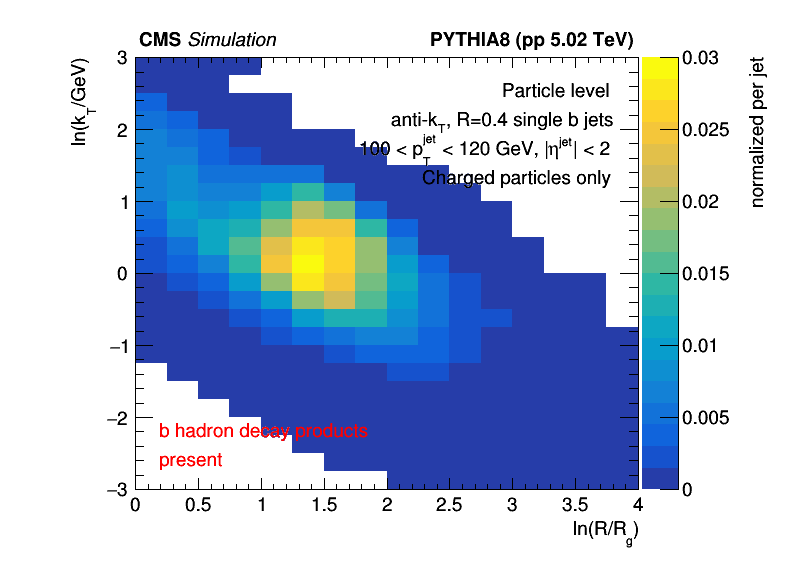
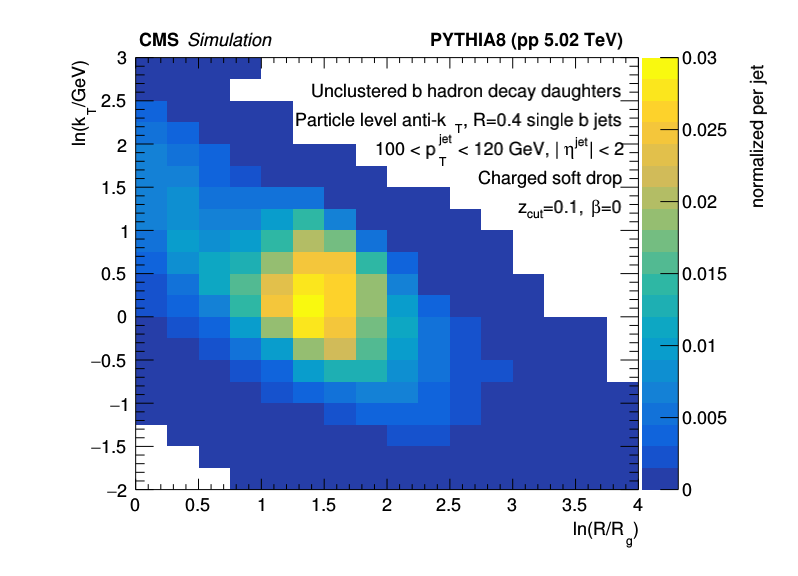
update text in lund plane

diff --git a/myMacros/C106X/draw_substructure.C b/myMacros/C106X/draw_substructure.C
@@ -28,7 +28,7 @@ void draw_substructure(TString observable="rg")
     if (observable=="rg") xlabel = "ln(R/R_{g})";
     else if (observable=="zg") xlabel = "z_{g}";
 
-    TString label = "aggrTMVA_newJP";
+    TString label = "aggrGenNoReco_withPNET";
     TString sample = "bjet";
     TString fin_name = "./histos/" + sample + "_" + label + "_substructure.root"; 
     std::cout << "fin: " << fin_name << std::endl;
@@ -43,6 +43,7 @@ void draw_substructure(TString observable="rg")
     hSingleB_gen->GetZaxis()->SetTitle("normalized per jet");
     hSingleB_gen->GetZaxis()->SetTitleOffset(1.8);
     hSingleB_gen->GetZaxis()->SetRangeUser(0., 0.03);
+    hSingleB_gen->GetYaxis()->SetRangeUser(-2., 3.);
 
     TCanvas *c_SingleB_gen = new TCanvas("c_SingleB_gen", "Truth level lund plane no tag", 800, 600);
     c_SingleB_gen->SetRightMargin(0.2);
@@ -54,64 +55,65 @@ void draw_substructure(TString observable="rg")
     TLatex *jet_info = new TLatex;
     jet_info->SetNDC();
     jet_info->SetTextSize(text_size);
-    jet_info->DrawLatex(0.63, 0.83, "Particle level");
-    jet_info->DrawLatex(0.49, 0.78, "anti-k_{T}, R=0.4 single b jets");
-    jet_info->DrawLatex(0.45, 0.73, "100 < p_{T}^{jet} < 120 GeV, |#eta^{jet}| < 2");
-    jet_info->DrawLatex(0.53, 0.68, "Charged particles only");
-    auto txt1 = jet_info->DrawLatex(0.2, 0.24, "b hadron decay products");
-    txt1->SetTextColor(kRed);
-    TString bdecay;
-    if (label.Contains("aggrTMVA")) bdecay = "aggregated";
-    else bdecay = "present";
-    auto txt2 = jet_info->DrawLatex(0.2, 0.19, bdecay);
-    txt2->SetTextColor(kRed);
+    jet_info->DrawLatex(0.37, 0.78, "Particle level anti-k_{T}, R=0.4 single b jets");
+    jet_info->DrawLatex(0.47, 0.73, "100 < p_{T}^{jet} < 120 GeV, |#eta^{jet}| < 2");
+    jet_info->DrawLatex(0.6, 0.68, "Charged soft drop");
+    jet_info->DrawLatex(0.65, 0.63, "z_{cut}=0.1, #beta=0");
+    if (label.Contains("aggr")) {
+        auto txt1 = jet_info->DrawLatex(0.42, 0.83, "Clustered b hadron decay daughters");
+        // txt1->SetTextColor(kWhite);
+    } else {
+        auto txt1 = jet_info->DrawLatex(0.39, 0.83, "Unclustered b hadron decay daughters");
+        // txt1->SetTextColor(kWhite);
+    }
+
     jet_info->Draw();
 
     c_SingleB_gen->Print("plots_an/"+sample+"_"+label+"_"+observable+"_vs_kt.pdf");
     c_SingleB_gen->Print("plots_an/"+sample+"_"+label+"_"+observable+"_vs_kt.png");
 
     // Draw gen vs reco 
-    TH2F *hSingleBtag_reco_vs_gen = (TH2F *) fin->Get("hSingleBtag_"+observable+"_reco_vs_gen");
-    int nbins_x = hSingleBtag_reco_vs_gen->GetNbinsX();
-    int nbins_y = hSingleBtag_reco_vs_gen->GetNbinsY();
-    for (int iy=1; iy<=nbins_y; iy++) {
-        double integral = hSingleBtag_reco_vs_gen->Integral(1, nbins_x, iy, iy);
-        for (int ix=1; ix<=nbins_x; ix++) {
-            double content = hSingleBtag_reco_vs_gen->GetBinContent(ix, iy);
-            hSingleBtag_reco_vs_gen->SetBinContent(ix, iy, content/integral);
-        }
-    }
-    hSingleBtag_reco_vs_gen->GetXaxis()->SetTitle("Detector level "+xlabel);
-    hSingleBtag_reco_vs_gen->GetYaxis()->SetTitle("Particle level "+xlabel);
-    hSingleBtag_reco_vs_gen->GetYaxis()->SetTitleOffset(1.2);
-    hSingleBtag_reco_vs_gen->GetZaxis()->SetTitle("normalized per particle level bin");
-    hSingleBtag_reco_vs_gen->GetZaxis()->SetTitleOffset(1.5);
-    hSingleBtag_reco_vs_gen->GetZaxis()->SetRangeUser(0.,1.);
+    // TH2F *hSingleBtag_reco_vs_gen = (TH2F *) fin->Get("hSingleBtag_"+observable+"_reco_vs_gen");
+    // int nbins_x = hSingleBtag_reco_vs_gen->GetNbinsX();
+    // int nbins_y = hSingleBtag_reco_vs_gen->GetNbinsY();
+    // for (int iy=1; iy<=nbins_y; iy++) {
+    //     double integral = hSingleBtag_reco_vs_gen->Integral(1, nbins_x, iy, iy);
+    //     for (int ix=1; ix<=nbins_x; ix++) {
+    //         double content = hSingleBtag_reco_vs_gen->GetBinContent(ix, iy);
+    //         hSingleBtag_reco_vs_gen->SetBinContent(ix, iy, content/integral);
+    //     }
+    // }
+    // hSingleBtag_reco_vs_gen->GetXaxis()->SetTitle("Detector level "+xlabel);
+    // hSingleBtag_reco_vs_gen->GetYaxis()->SetTitle("Particle level "+xlabel);
+    // hSingleBtag_reco_vs_gen->GetYaxis()->SetTitleOffset(1.2);
+    // hSingleBtag_reco_vs_gen->GetZaxis()->SetTitle("normalized per particle level bin");
+    // hSingleBtag_reco_vs_gen->GetZaxis()->SetTitleOffset(1.5);
+    // hSingleBtag_reco_vs_gen->GetZaxis()->SetRangeUser(0.,1.);
 
-    TCanvas *c_SingleBtag_reco_vs_gen = new TCanvas("c_SingleBtag_reco_vs_gen", "x=reco,y=gen", 800, 600);
-    c_SingleBtag_reco_vs_gen->SetRightMargin(0.2);
-    hSingleBtag_reco_vs_gen->Draw("colz");
+    // TCanvas *c_SingleBtag_reco_vs_gen = new TCanvas("c_SingleBtag_reco_vs_gen", "x=reco,y=gen", 800, 600);
+    // c_SingleBtag_reco_vs_gen->SetRightMargin(0.2);
+    // hSingleBtag_reco_vs_gen->Draw("colz");
 
-    TLatex *jet_info2 = new TLatex;
-    jet_info2->SetNDC();
-    jet_info2->SetTextSize(text_size);
-    jet_info2->DrawLatex(0.63, 0.35, "Particle level");
-    jet_info2->DrawLatex(0.39, 0.3, "anti-k_{T}, R=0.4 b-tagged single b jets");
-    jet_info2->DrawLatex(0.45, 0.25, "100 < p_{T}^{jet} < 120 GeV, |#eta^{jet}| < 2");
-    jet_info2->DrawLatex(0.53, 0.2, "Charged particles only");
-    auto txt11 = jet_info2->DrawLatex(0.2, 0.8, "b hadron decay products");
-    txt11->SetTextColor(kRed);
-    TString bdecay2;
-    if (label.Contains("aggrTMVA")) bdecay2 = "aggregated for both axes";
-    else if (label.Contains("aggrGenNoReco")) bdecay2 = "aggregated for particle level";
-    else bdecay2 = "present for both axes";
-    auto txt22 = jet_info2->DrawLatex(0.2, 0.75, bdecay2);
-    txt22->SetTextColor(kRed);
-    jet_info2->Draw();
+    // TLatex *jet_info2 = new TLatex;
+    // jet_info2->SetNDC();
+    // jet_info2->SetTextSize(text_size);
+    // jet_info2->DrawLatex(0.63, 0.35, "Particle level");
+    // jet_info2->DrawLatex(0.39, 0.3, "anti-k_{T}, R=0.4 b-tagged single b jets");
+    // jet_info2->DrawLatex(0.45, 0.25, "100 < p_{T}^{jet} < 120 GeV, |#eta^{jet}| < 2");
+    // jet_info2->DrawLatex(0.53, 0.2, "Charged particles only");
+    // auto txt11 = jet_info2->DrawLatex(0.2, 0.8, "b hadron decay products");
+    // txt11->SetTextColor(kRed);
+    // TString bdecay2;
+    // if (label.Contains("aggrTMVA")) bdecay2 = "aggregated for both axes";
+    // else if (label.Contains("aggrGenNoReco")) bdecay2 = "aggregated for particle level";
+    // else bdecay2 = "present for both axes";
+    // auto txt22 = jet_info2->DrawLatex(0.2, 0.75, bdecay2);
+    // txt22->SetTextColor(kRed);
+    // jet_info2->Draw();
 
-    draw_info();
+    // draw_info();
 
-    c_SingleBtag_reco_vs_gen->Print("plots_an/"+sample+"_"+label+"_"+observable+"_reco_vs_gen.pdf");
-    c_SingleBtag_reco_vs_gen->Print("plots_an/"+sample+"_"+label+"_"+observable+"_reco_vs_gen.png");
+    // c_SingleBtag_reco_vs_gen->Print("plots_an/"+sample+"_"+label+"_"+observable+"_reco_vs_gen.pdf");
+    // c_SingleBtag_reco_vs_gen->Print("plots_an/"+sample+"_"+label+"_"+observable+"_reco_vs_gen.png");
     
 }
